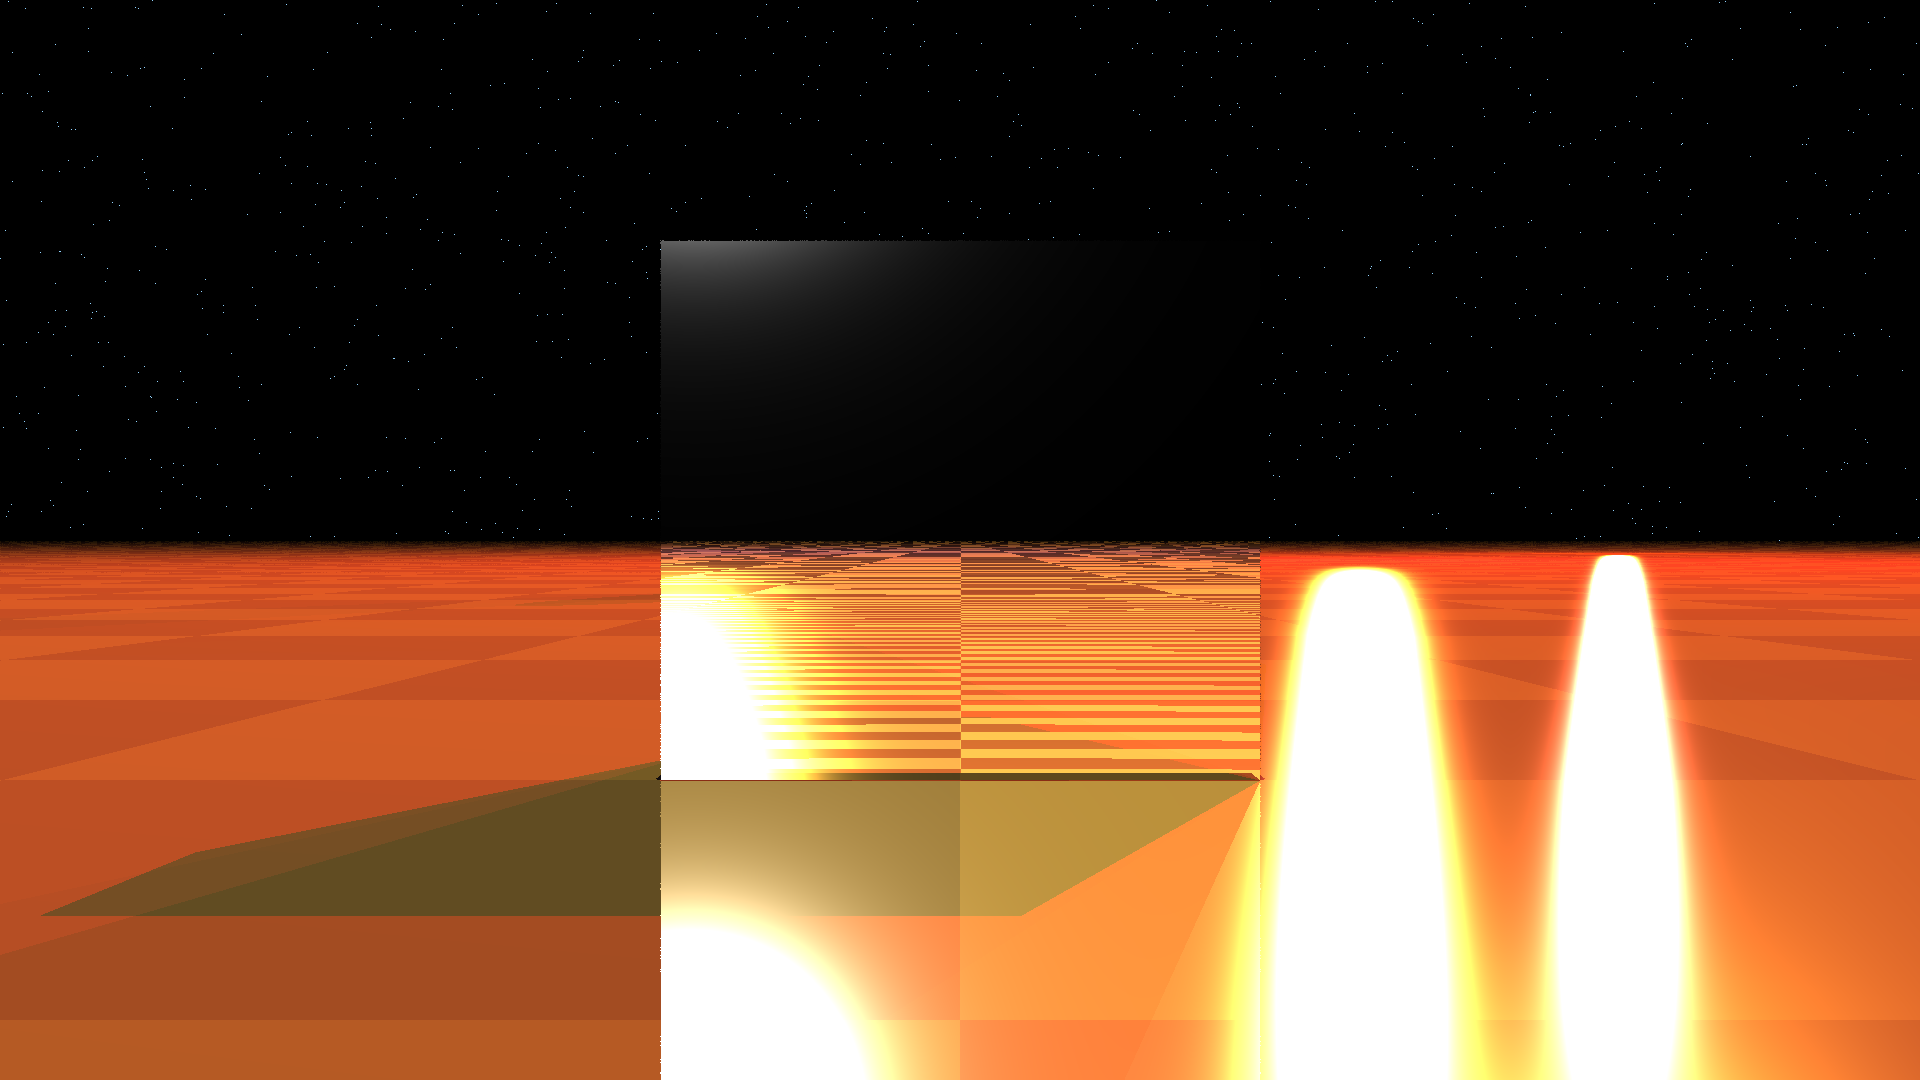
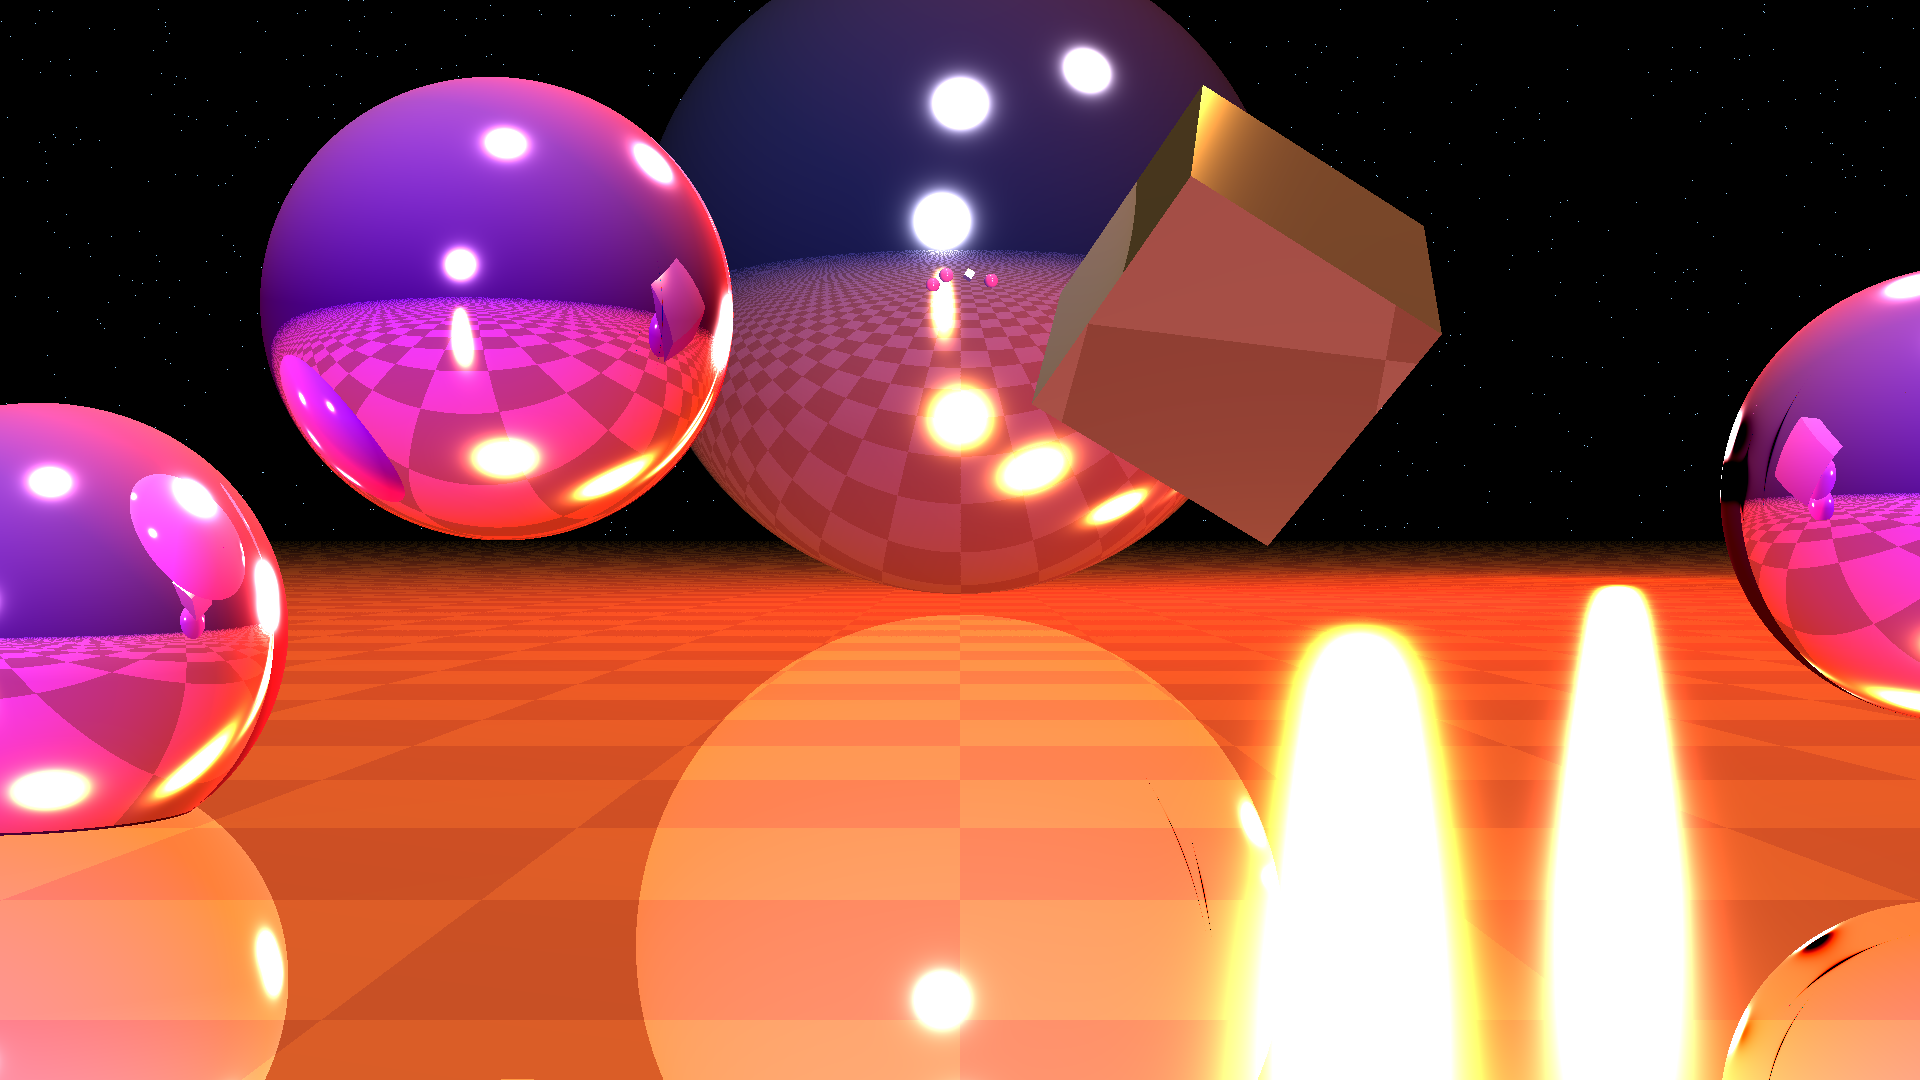
Fixed normal vectors of cube

diff --git a/src/main/object/Cube.java b/src/main/object/Cube.java
@@ -10,20 +10,27 @@ public class Cube extends Object {
 
     public Cube(Material material) {
         super(material);
-        this.normalVectors = new double[6][4];
+        this.normalVectors = new double[6][4];/*
         normalVectors[0] = new double[]{0, 1, 0, 0}; // right
         normalVectors[1] = new double[]{0, -1, 0, 0}; // left
         normalVectors[2] = new double[]{1, 0, 0, 0}; // bottom
         normalVectors[3] = new double[]{-1, 0, 0, 0}; // top
         normalVectors[4] = new double[]{0, 1, 0, 0}; // front
-        normalVectors[5] = new double[]{0, -1, 0, 0}; // back
+        normalVectors[5] = new double[]{0, -1, 0, 0}; // back*/
 
-        /*normalVectors[0] = new double[]{0, 0, -1, 0}; // top
-        normalVectors[1] = new double[]{0, 0, 1, 0}; // bottom
-        normalVectors[2] = new double[]{0, 1, 0, 0}; // right
-        normalVectors[3] = new double[]{0, -1, 0, 0}; // left
-        normalVectors[4] = new double[]{1, 0, 0, 0}; // front
-        normalVectors[5] = new double[]{-1, 0, 0, 0}; // back*/
+        /*normalVectors[0] = new double[]{0, 0, -1, 0}; // right -> top
+        normalVectors[1] = new double[]{0, 0, 1, 0}; // left -> bottom
+        normalVectors[2] = new double[]{0, 1, 0, 0}; // front -> right
+        normalVectors[3] = new double[]{0, -1, 0, 0}; // back -> left
+        normalVectors[4] = new double[]{1, 0, 0, 0}; // bottom -> front
+        normalVectors[5] = new double[]{-1, 0, 0, 0}; // top -> back*/
+
+        normalVectors[5] = new double[]{0, 0, -1, 0}; // top
+        normalVectors[4] = new double[]{0, 0, 1, 0}; // bottom
+        normalVectors[0] = new double[]{0, 1, 0, 0}; // right
+        normalVectors[1] = new double[]{0, -1, 0, 0}; // left
+        normalVectors[2] = new double[]{1, 0, 0, 0}; // front
+        normalVectors[3] = new double[]{-1, 0, 0, 0}; // back
     }
 
     @Override

diff --git a/src/main/Renderer.java b/src/main/Renderer.java
@@ -17,7 +17,7 @@ import java.util.Random;
 public class Renderer {
     private final double LIGHTSOURCEFACTOR = 0.1; // or a bit of contrast
     private final double EPSILON = 0.3; // the difference that will be subtracted for shadowing
-    private final int MAXRECURSELEVEL = 1; // TODO: move to SDL parameter
+    private final int MAXRECURSELEVEL = 5; // TODO: move to SDL parameter
     private final double DW = 0.1; // width lightbeam coming from source
     private final boolean shadowsEnabled = true;
     private final boolean reflection = true;
@@ -376,7 +376,6 @@ public class Renderer {
                 Object refractedObjectHit = objectIntersection.getObject();
                 Intersection refractedIntersectionHit = objectIntersection.getIntersection();
 
-
                 if (refractedObjectHit != null) {
                     if (refractedObjectHit == currentObject) {
                         // TODO, change the above if when boolean objects have been added -> then the next hit will be the inner object.
@@ -410,7 +409,7 @@ public class Renderer {
                         Intersection outerRefractedIntersectionHit = outerObjectIntersection.getIntersection();
 
                         if (outerRefractedObjectHit != null) {
-                            double[] reflectedColors = getShading(refraction, outerRefractedObjectHit, outerRefractedIntersectionHit, rgb.clone(), recurseLevel, currentObject.getMaterial().getSpeedOfLight());
+                            double[] reflectedColors = getShading(outerrefraction, outerRefractedObjectHit, outerRefractedIntersectionHit, rgb.clone(), recurseLevel, currentObject.getMaterial().getSpeedOfLight());
 
                             for (int i = 0; i < 3; i++)
                                 rgb[i] += currentObject.getMaterial().getTransparency() * reflectedColors[i];
